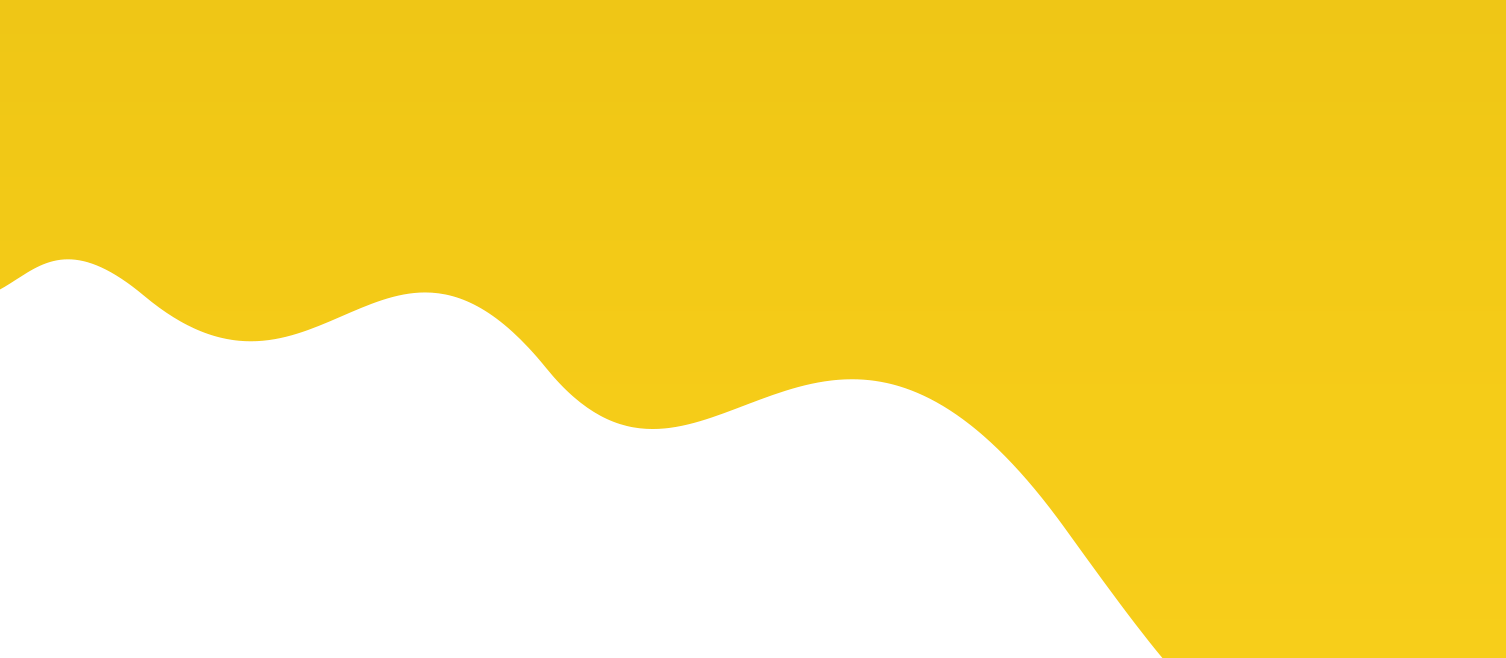
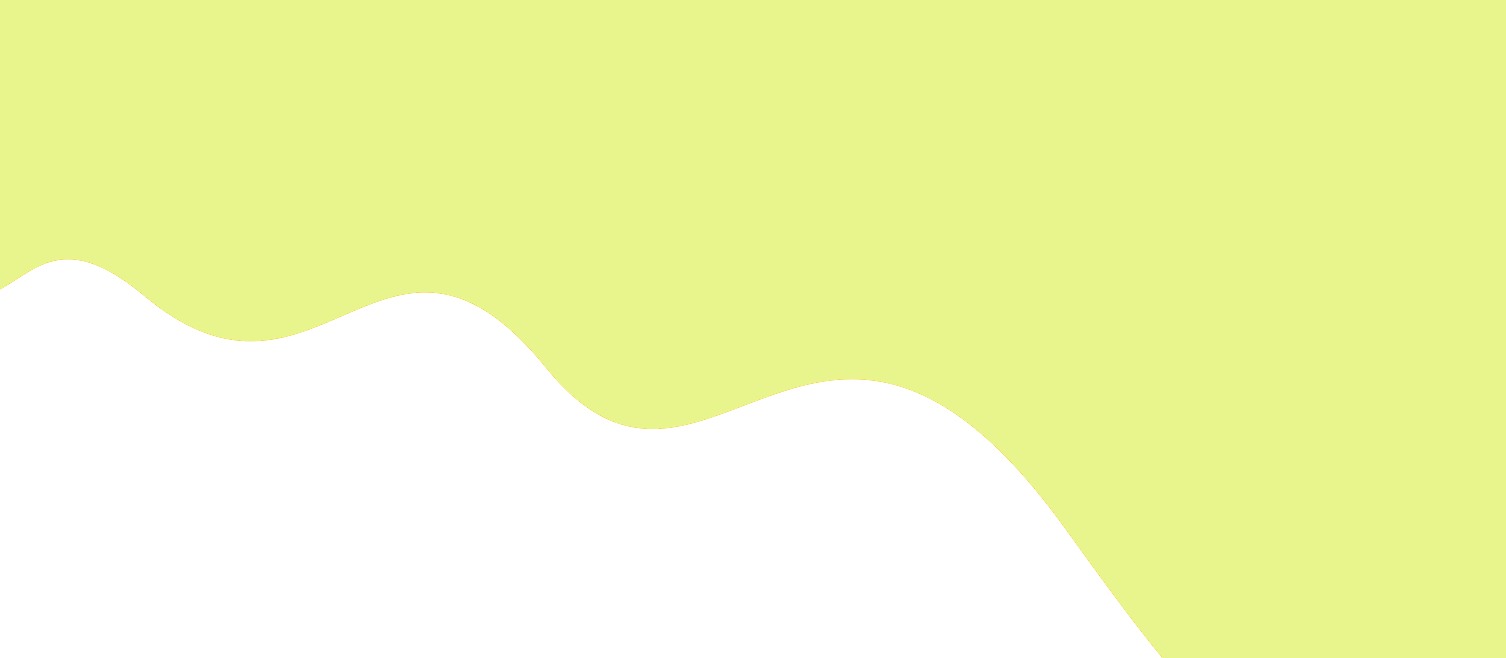
Storylist color change

diff --git a/anudhaGames/templates/story.html b/anudhaGames/templates/story.html
@@ -30,7 +30,8 @@
             font-family: "Finger Paint", serif;
             text-align: center;
             font-weight: 400;
-            background-color: #ffdd57;
+            background-color: #e8f48c
+            ;
             padding: 35px;
             box-shadow: 0 4px 6px rgba(0, 0, 0, 0.1);
             flex:100;
@@ -49,7 +50,8 @@
             padding: 20px;
             display: flex;
             justify-content: center;
-            background-color: #ffdd57;
+            background-color: #e8f48c
+            ;
         }
 
         .div2 {
@@ -246,7 +248,8 @@
 </head>
 <body>
     <div class="header">
-        <h1>{{ story_name }}</h1>
+        <!-- <h1>{{ story_name }}</h1> -->
+        <h1 style="color: #000;">{{ story_name }}</h1>
     </div>
 
     <div class="logo-container">
@@ -256,7 +259,8 @@
     <!-- Main Section -->
     <div class="containerd" style="margin-top: 12px;">
         <div class="div1">
-            <span class="li">
+            <!-- <span class="li"> -->
+            <span class="li" style="color: #000;">
                 <a href="{% url 'profile' %}">Profile</a>
                 {% if email %}
                     <p>Welcome, {{ username }} ({{ email }})</p>
@@ -286,7 +290,7 @@
                 <img src="{% static 'icons/reward.png' %}" alt="">
                 <p id="sessionPoints">{{ user_session_points }}</p>
             </div>
-            <div class="question-section" style="background-image: url('/static/images/qbg3.png');background-size: cover;align-items: center;" id="questionBox">
+            <div class="question-section" style="background-image: url('/static/images/qbg2.png');background-size: cover;align-items: center;" id="questionBox">
                 {% if not question %}
                         <a href="{% url 'story' story_id node_id %}">
                             <button onclick="playSound('choice')" style="width: 200px; margin-top: 80%;">Next</button>

diff --git a/anudhaGames/templates/storylist.html b/anudhaGames/templates/storylist.html
@@ -34,7 +34,7 @@
             font-family: "Finger Paint", serif;
             text-align: center;
             font-weight: 400;
-            background-color: #ffdd57;
+            background-color: #e8f48c;
             padding: 20px;
             box-shadow: 0 4px 6px rgba(0, 0, 0, 0.1);
         }
@@ -148,10 +148,24 @@
         width: 200px; 
         height: auto;
         }
+
+        .side-container{
+            position: absolute;
+            top: 10px;
+            left: 1px;
+            z-index: 1000; 
+        }
         
     </style>
 </head>
 <body>
+    <div class="side-container">
+        {% if email %}
+            <p align="left">Welcome, {{ username }} <br> Your Points: {{ user_total_points }}</p>
+        {% else %}
+            <p>Please log in.</p>
+        {% endif %}
+    </div>
     <div class="header">
         <h1>Anudha Stories</h1>
         <h4>Lets Explore....</h4>
@@ -160,10 +174,8 @@
         <!-- <a href="l ogout/"><i class="fa fa-sign-out"></i></a> -->
         <img src="{% static 'images/logo.png' %}" alt="Logo" class="logo">
         <br>
-        <a href="{% url 'profile' %}">Profile</a>
+        <a href="{% url 'profile' %}">Profile</a> | 
         {% if email %}
-            <p>Welcome, {{ username }} ({{ email }})</p>
-            <p>Your Points: {{ user_total_points }}</p>
             <a href="{% url 'logout' %}">Logout</a>
         {% else %}
             <p>Please log in.</p>
